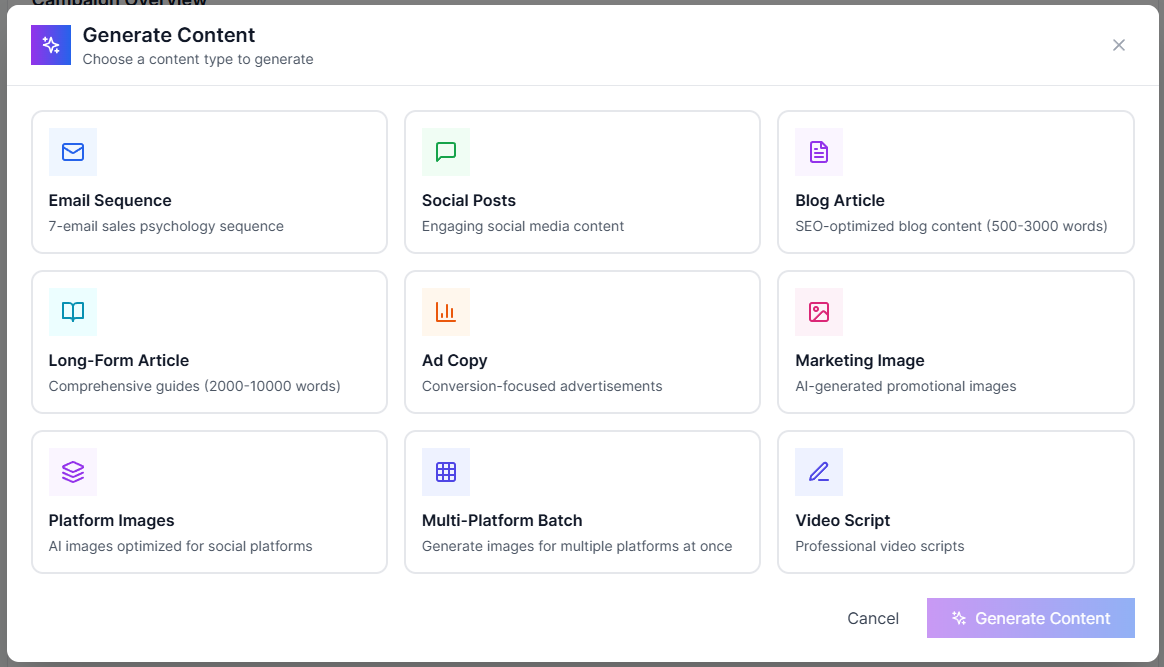
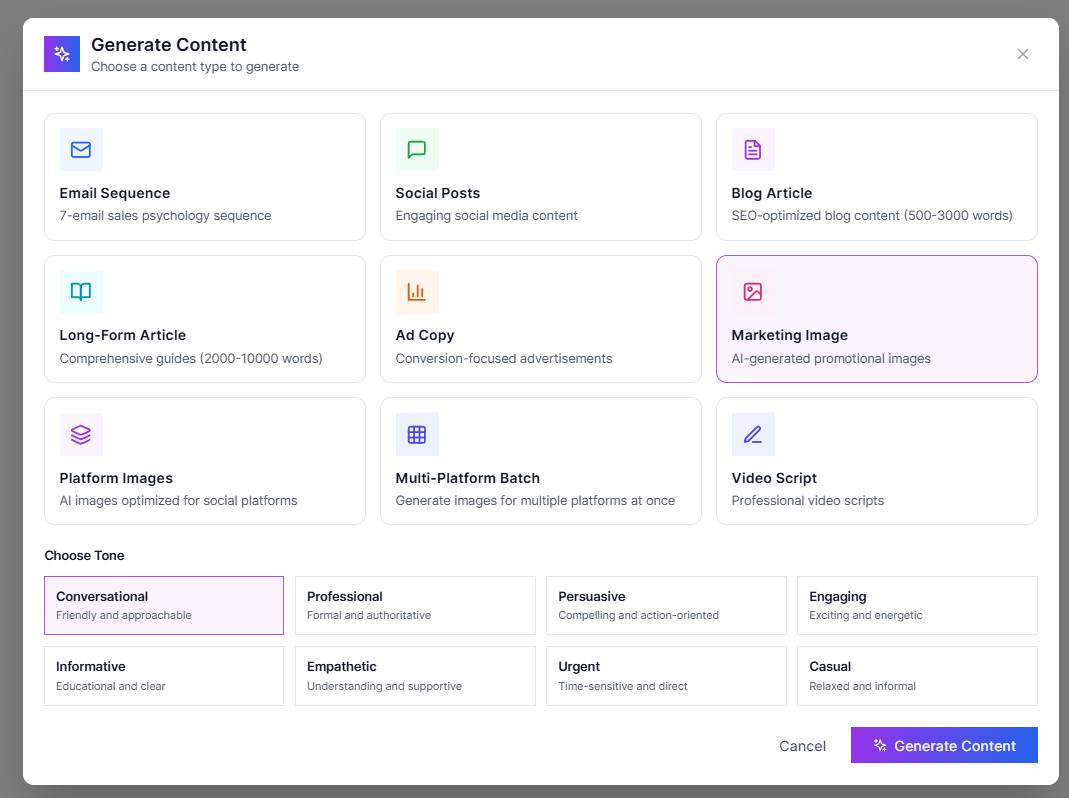
fix: Add style and size selectors to Marketing Image modal
- Add 7 style options (professional, modern, vibrant, minimalist, dramatic, funny, animated)
- Add 3 size options (square 1024x1024, landscape 1792x1024, portrait 1024x1792)
- Pass style and dimensions to backend API
- Hide tone selector for image content type
- Reset selectedImageStyle on modal close
- Default to square 1024x1024 and professional style

diff --git a/src/components/campaigns/ContentGenerationModal.tsx b/src/components/campaigns/ContentGenerationModal.tsx
@@ -53,11 +53,12 @@ export default function ContentGenerationModal({
   // ENHANCED: Platform image generation state
   const [selectedPlatforms, setSelectedPlatforms] = useState<string[]>([]);
   const [platformSpecs, setPlatformSpecs] = useState<Record<string, any>>({});
-  const [imageType, setImageType] = useState<string>("marketing");
+  const [imageType, setImageType] = useState<string>("1024x1024"); // Default to square for marketing images
   const [stylePreferences, setStylePreferences] = useState<Record<string, any>>(
     {}
   );
   const [estimatedCost, setEstimatedCost] = useState<number>(0);
+  const [selectedImageStyle, setSelectedImageStyle] = useState<string>("professional");
 
   // FIXED: Move all useCallback hooks to top level
   const loadPlatformSpecs = useCallback(async () => {
@@ -471,6 +472,10 @@ export default function ContentGenerationModal({
       } else if (selectedType === "long_form_article") {
         preferences.word_count = longFormWordCount;
         preferences.article_type = articleType;
+      } else if (selectedType === "image") {
+        // Marketing Image preferences
+        preferences.style = selectedImageStyle;
+        preferences.dimensions = imageType; // Will be "1024x1024", "1792x1024", or "1024x1792"
       } else if (selectedType === "platform_image") {
         // ENHANCED: Platform image preferences
         if (selectedPlatforms.length === 0) {
@@ -538,6 +543,7 @@ export default function ContentGenerationModal({
         setImageType("marketing");
         setStylePreferences({});
         setEstimatedCost(0);
+        setSelectedImageStyle("professional");
         setGenerationSuccess(false);
         setError(null);
       }, 1500);
@@ -648,9 +654,74 @@ export default function ContentGenerationModal({
             })}
           </div>
 
+          {/* Marketing Image Options */}
+          {selectedType === "image" && (
+            <div className="mt-6 space-y-6">
+              {/* Image Style Selection */}
+              <div>
+                <h3 className="text-sm font-semibold text-gray-900 mb-3">
+                  Image Style
+                </h3>
+                <div className="grid grid-cols-2 md:grid-cols-4 gap-3">
+                  {[
+                    { value: "professional", label: "Professional", desc: "Corporate, trustworthy" },
+                    { value: "modern", label: "Modern", desc: "Contemporary, trendy" },
+                    { value: "vibrant", label: "Vibrant", desc: "Bold, energetic" },
+                    { value: "minimalist", label: "Minimalist", desc: "Clean, simple" },
+                    { value: "dramatic", label: "Dramatic", desc: "High contrast, bold" },
+                    { value: "funny", label: "Funny", desc: "Playful, humorous" },
+                    { value: "animated", label: "Animated", desc: "3D rendered, cartoon" },
+                  ].map((style) => (
+                    <button
+                      key={style.value}
+                      onClick={() => setSelectedImageStyle(style.value)}
+                      disabled={isGenerating}
+                      className={`p-3 border rounded-lg text-left transition-all ${
+                        selectedImageStyle === style.value
+                          ? "border-purple-500 bg-purple-50"
+                          : "border-gray-200 hover:border-purple-300 hover:bg-purple-50"
+                      } ${isGenerating ? "opacity-50 cursor-not-allowed" : ""}`}
+                    >
+                      <div className="font-medium text-sm text-gray-900">{style.label}</div>
+                      <div className="text-xs text-gray-600 mt-1">{style.desc}</div>
+                    </button>
+                  ))}
+                </div>
+              </div>
+
+              {/* Image Size Selection */}
+              <div>
+                <h3 className="text-sm font-semibold text-gray-900 mb-3">
+                  Image Size
+                </h3>
+                <div className="grid grid-cols-2 md:grid-cols-3 gap-3">
+                  {[
+                    { label: "Square (1024x1024)", value: "1024x1024", desc: "Perfect for social posts" },
+                    { label: "Landscape (1792x1024)", value: "1792x1024", desc: "Wide banner format" },
+                    { label: "Portrait (1024x1792)", value: "1024x1792", desc: "Story/vertical format" },
+                  ].map((size) => (
+                    <button
+                      key={size.value}
+                      onClick={() => setImageType(size.value)}
+                      disabled={isGenerating}
+                      className={`p-3 border rounded-lg text-left transition-all ${
+                        imageType === size.value
+                          ? "border-purple-500 bg-purple-50"
+                          : "border-gray-200 hover:border-purple-300 hover:bg-purple-50"
+                      } ${isGenerating ? "opacity-50 cursor-not-allowed" : ""}`}
+                    >
+                      <div className="font-medium text-sm text-gray-900">{size.label}</div>
+                      <div className="text-xs text-gray-600 mt-1">{size.desc}</div>
+                    </button>
+                  ))}
+                </div>
+              </div>
+            </div>
+          )}
+
           {/* Tone Selection */}
           {selectedType &&
-            !["platform_image", "multi_platform_image"].includes(
+            !["platform_image", "multi_platform_image", "image"].includes(
               selectedType
             ) && (
               <div className="mt-6">
